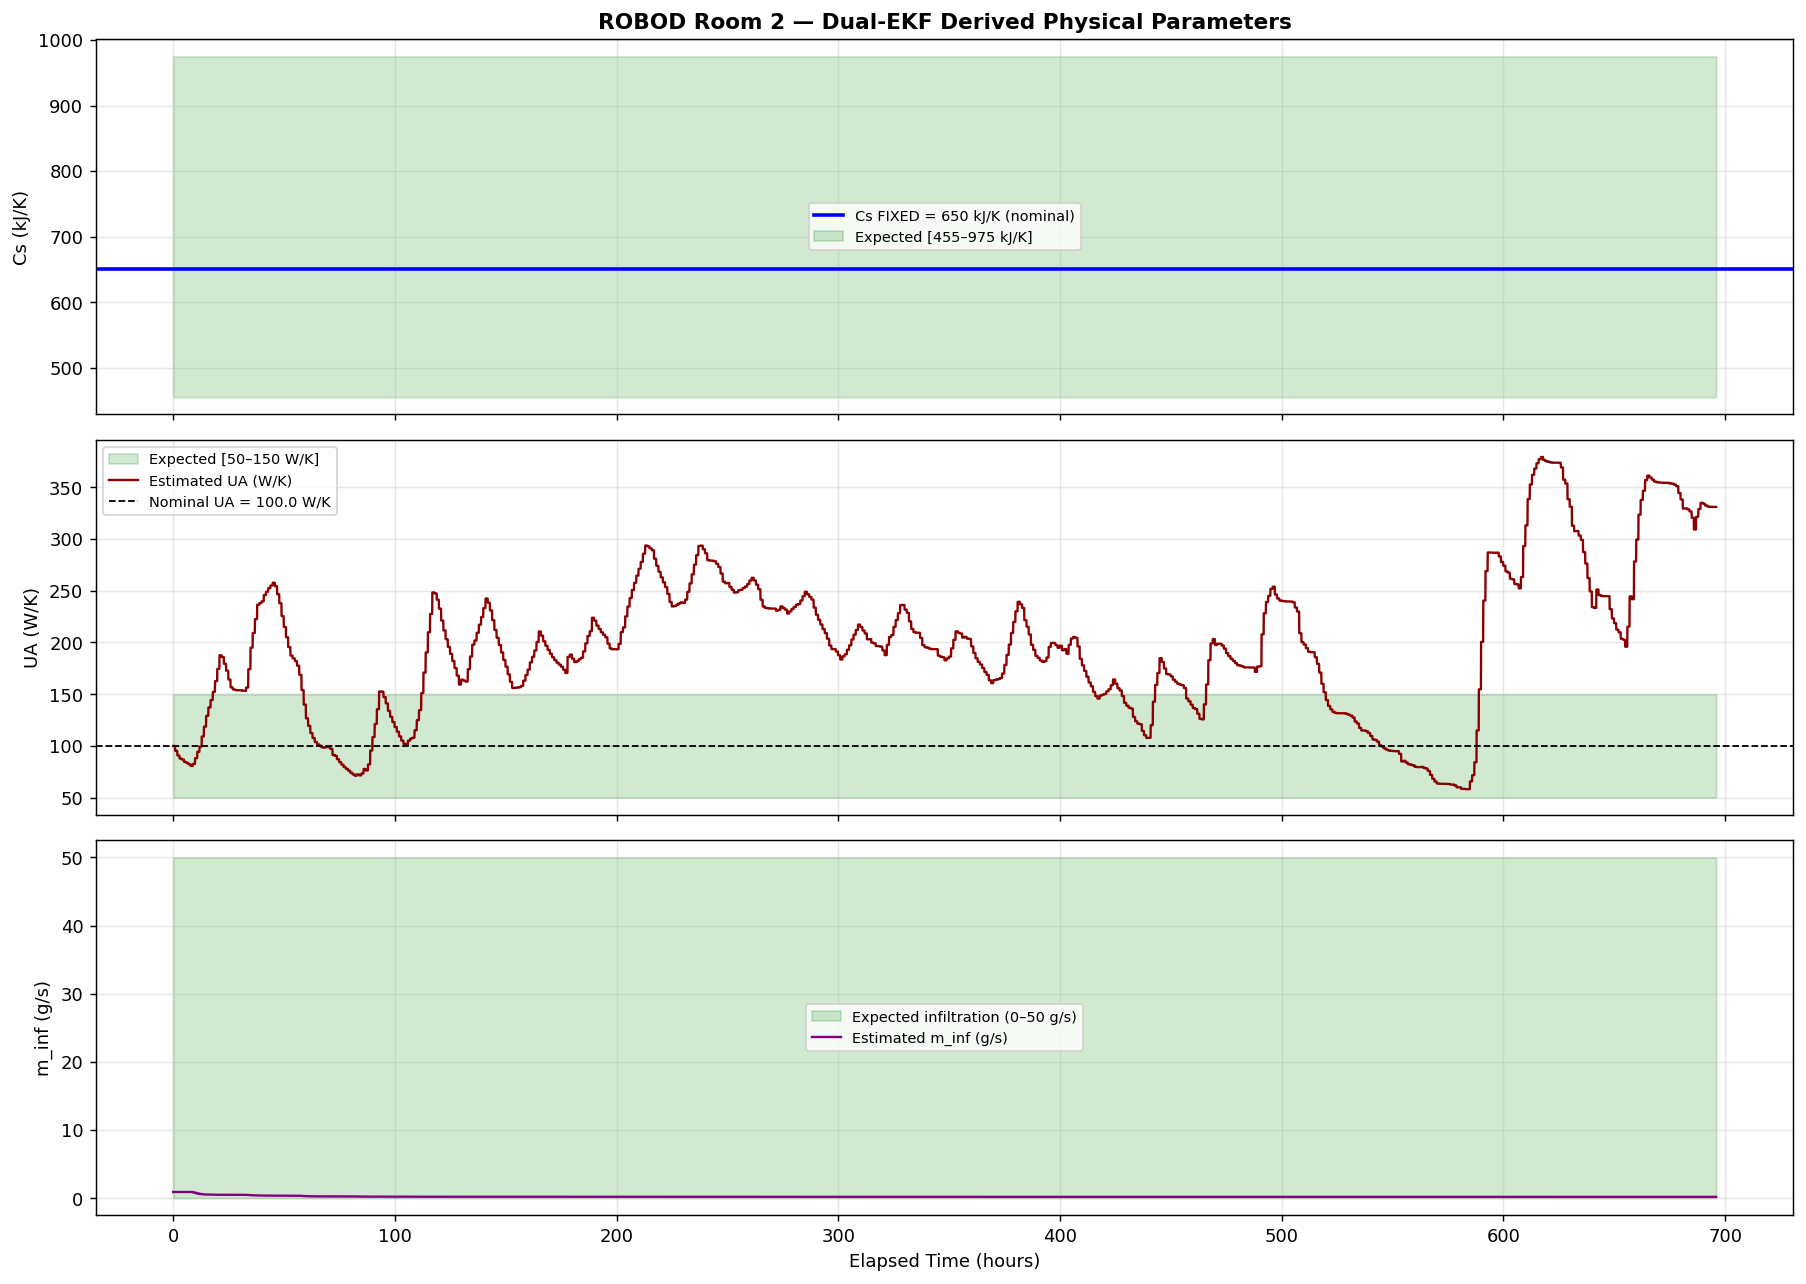
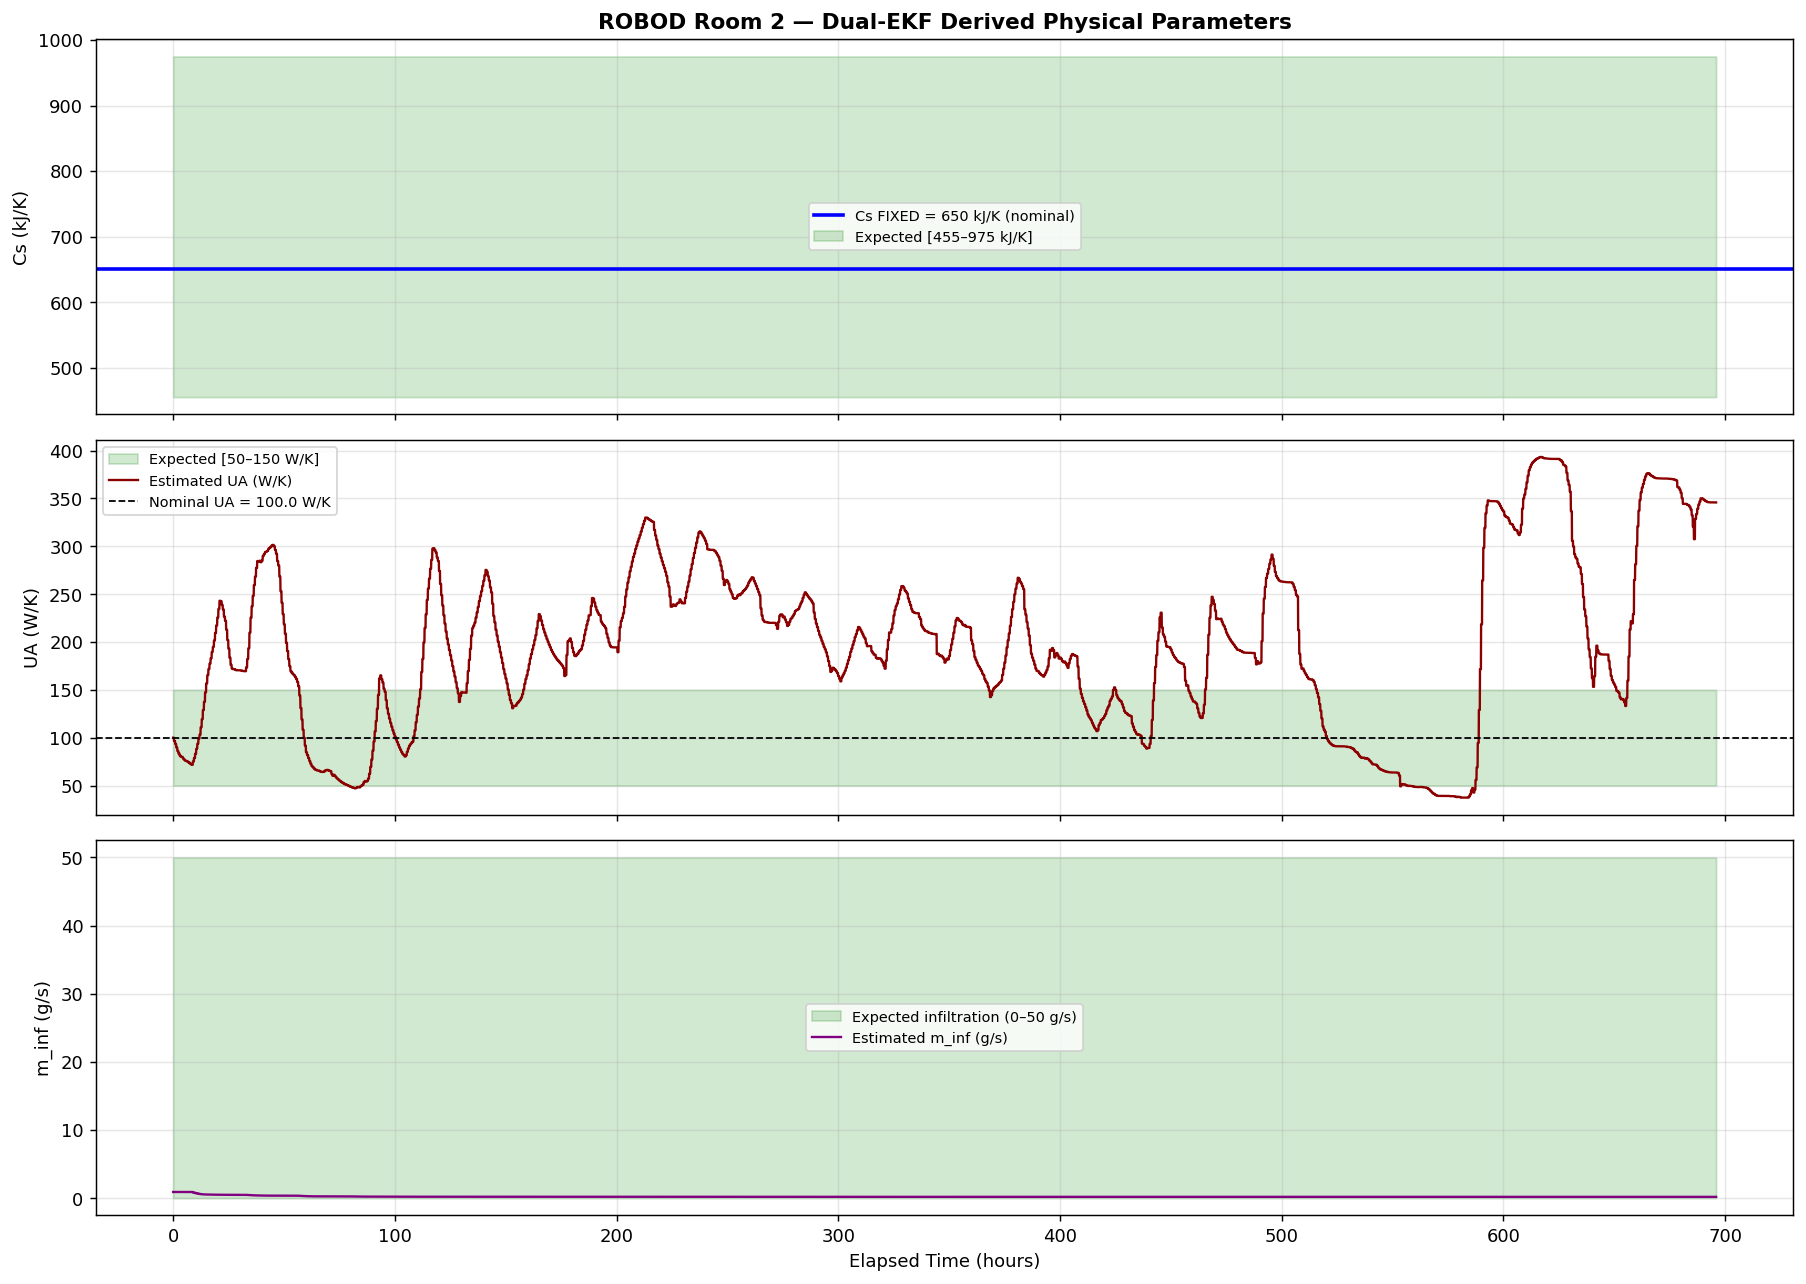
ROBOD dual EKF update time step reduce

diff --git a/EKF/robod_ekf/Dual_EKF_ROBOD.py b/EKF/robod_ekf/Dual_EKF_ROBOD.py
@@ -60,7 +60,7 @@ rho_air         = 1.2         # kg/m³
 DT              = 300.0       # seconds per step
 CMH_TO_KGS      = rho_air / 3600.0
 F_RECIRC        = 0.5         # AHU recirculation fraction
-PARAM_UPDATE_STEP = 12        # Update params every 12 steps = 60 min window
+PARAM_UPDATE_STEP = 6         # Update params every 6 steps = 30 min window
 GE_PER_PERSON   = 0.0055      # CO₂ generation per person [ppm·kg/s] (typical ~0.005-0.008)
 
 # ── Room Specifications ────────────────────────────────────────────────────────
@@ -246,7 +246,7 @@ def run_dual_ekf(df_in, spec):
     Qp = np.diag([
         1e-4,     # xi_ao — UA changes very slowly
         5e-4,     # xi_bo — infiltration changes slowly
-        5e-3,     # xi_ge — occupancy on timescale of 30-60 min, NOT seconds
+        1e-2,     # xi_ge — respond within 30-60 min to occupancy events
     ])
 
     # Param filter R: sets how much CO2 residual pulls gamma_e
@@ -316,7 +316,14 @@ def run_dual_ekf(df_in, spec):
 
         # ── EKF_PARAMS: Update (every PARAM_UPDATE_STEP = 60 min) ────────
         if len(innov_window) >= PARAM_UPDATE_STEP:
-            innov_batch  = np.mean(innov_window, axis=0)
+            innov_arr   = np.array(innov_window)    # shape (PARAM_UPDATE_STEP, 3)
+            # Tz/wz: use mean (stable signal)
+            # cz: use signed-max (preserves CO2 peak events, not averaged away)
+            cz_vals     = innov_arr[:, 2]
+            cz_signmax  = cz_vals[np.argmax(np.abs(cz_vals))]  # signed max abs
+            innov_batch = np.array([innov_arr[:,0].mean(),
+                                    innov_arr[:,1].mean(),
+                                    cz_signmax])
             innov_window = []
 
             S_avg = S.copy()
